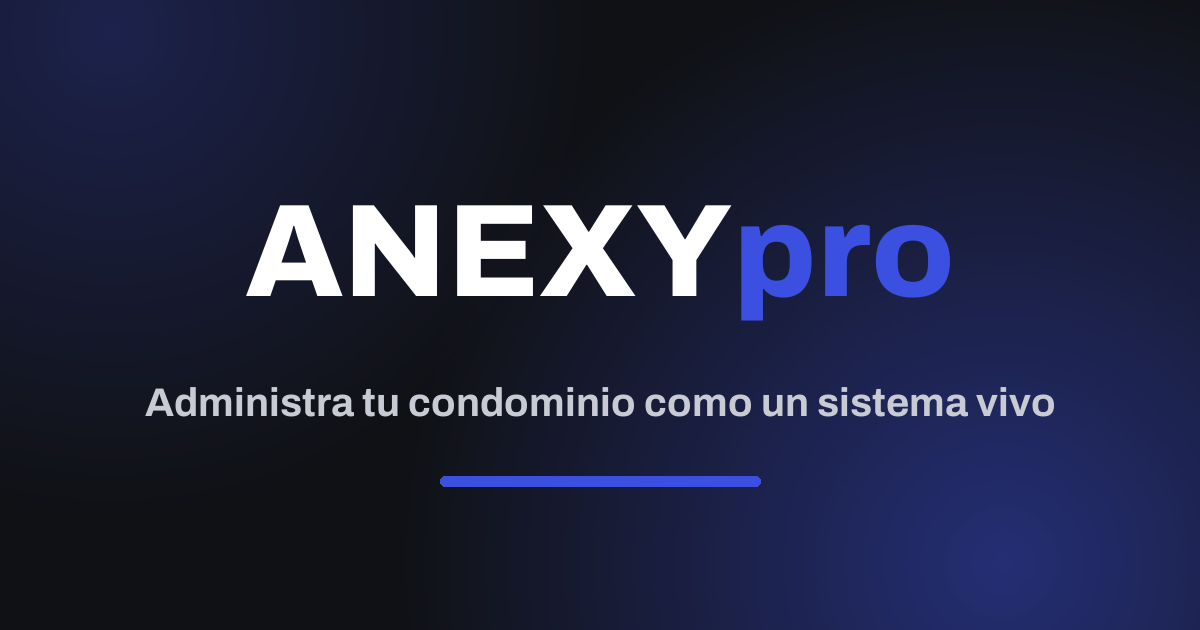
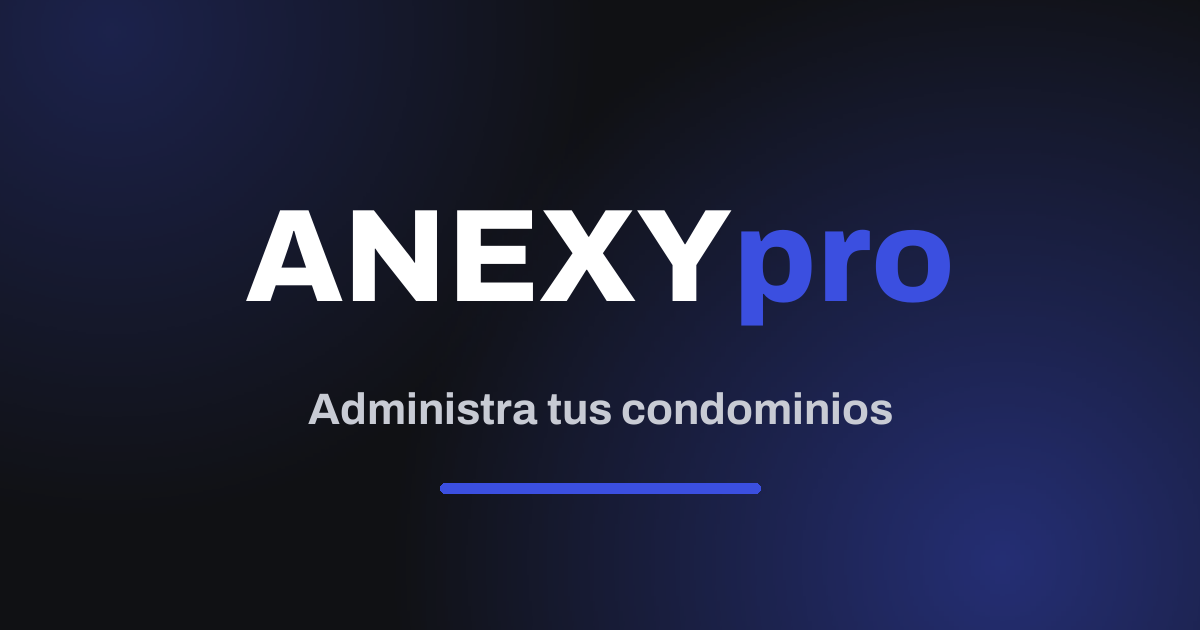
El título del sitio es ahora: ANEXYpro — Administra tus condominios

diff --git a/marketing/index.html b/marketing/index.html
@@ -2,11 +2,11 @@
 <html>
 <head>
   <meta charset="utf-8">
-  <title>ANEXYpro — Administra tu condominio como un sistema vivo</title>
+  <title>ANEXYpro — Administra tus condominios</title>
   <meta name="description" content="Gestión de proyectos, gestión del tiempo y gestión de procesos. ANEXYpro te ahorra tiempo.">
   <meta property="og:type" content="website">
   <meta property="og:site_name" content="ANEXYpro">
-  <meta property="og:title" content="ANEXYpro — Administra tu condominio como un sistema vivo">
+  <meta property="og:title" content="ANEXYpro — Administra tus condominios">
   <meta property="og:description" content="Gestión de proyectos, gestión del tiempo y gestión de procesos. ANEXYpro te ahorra tiempo.">
   <meta property="og:url" content="https://www.anexypro.com/">
   <meta property="og:image" content="https://www.anexypro.com/og-image.png">
@@ -14,7 +14,7 @@
   <meta property="og:image:height" content="630">
   <meta property="og:locale" content="es_CR">
   <meta name="twitter:card" content="summary_large_image">
-  <meta name="twitter:title" content="ANEXYpro — Administra tu condominio como un sistema vivo">
+  <meta name="twitter:title" content="ANEXYpro — Administra tus condominios">
   <meta name="twitter:description" content="Gestión de proyectos, gestión del tiempo y gestión de procesos. ANEXYpro te ahorra tiempo.">
   <meta name="twitter:image" content="https://www.anexypro.com/og-image.png">
   <link rel="icon" href="/favicon.ico" sizes="48x48">
